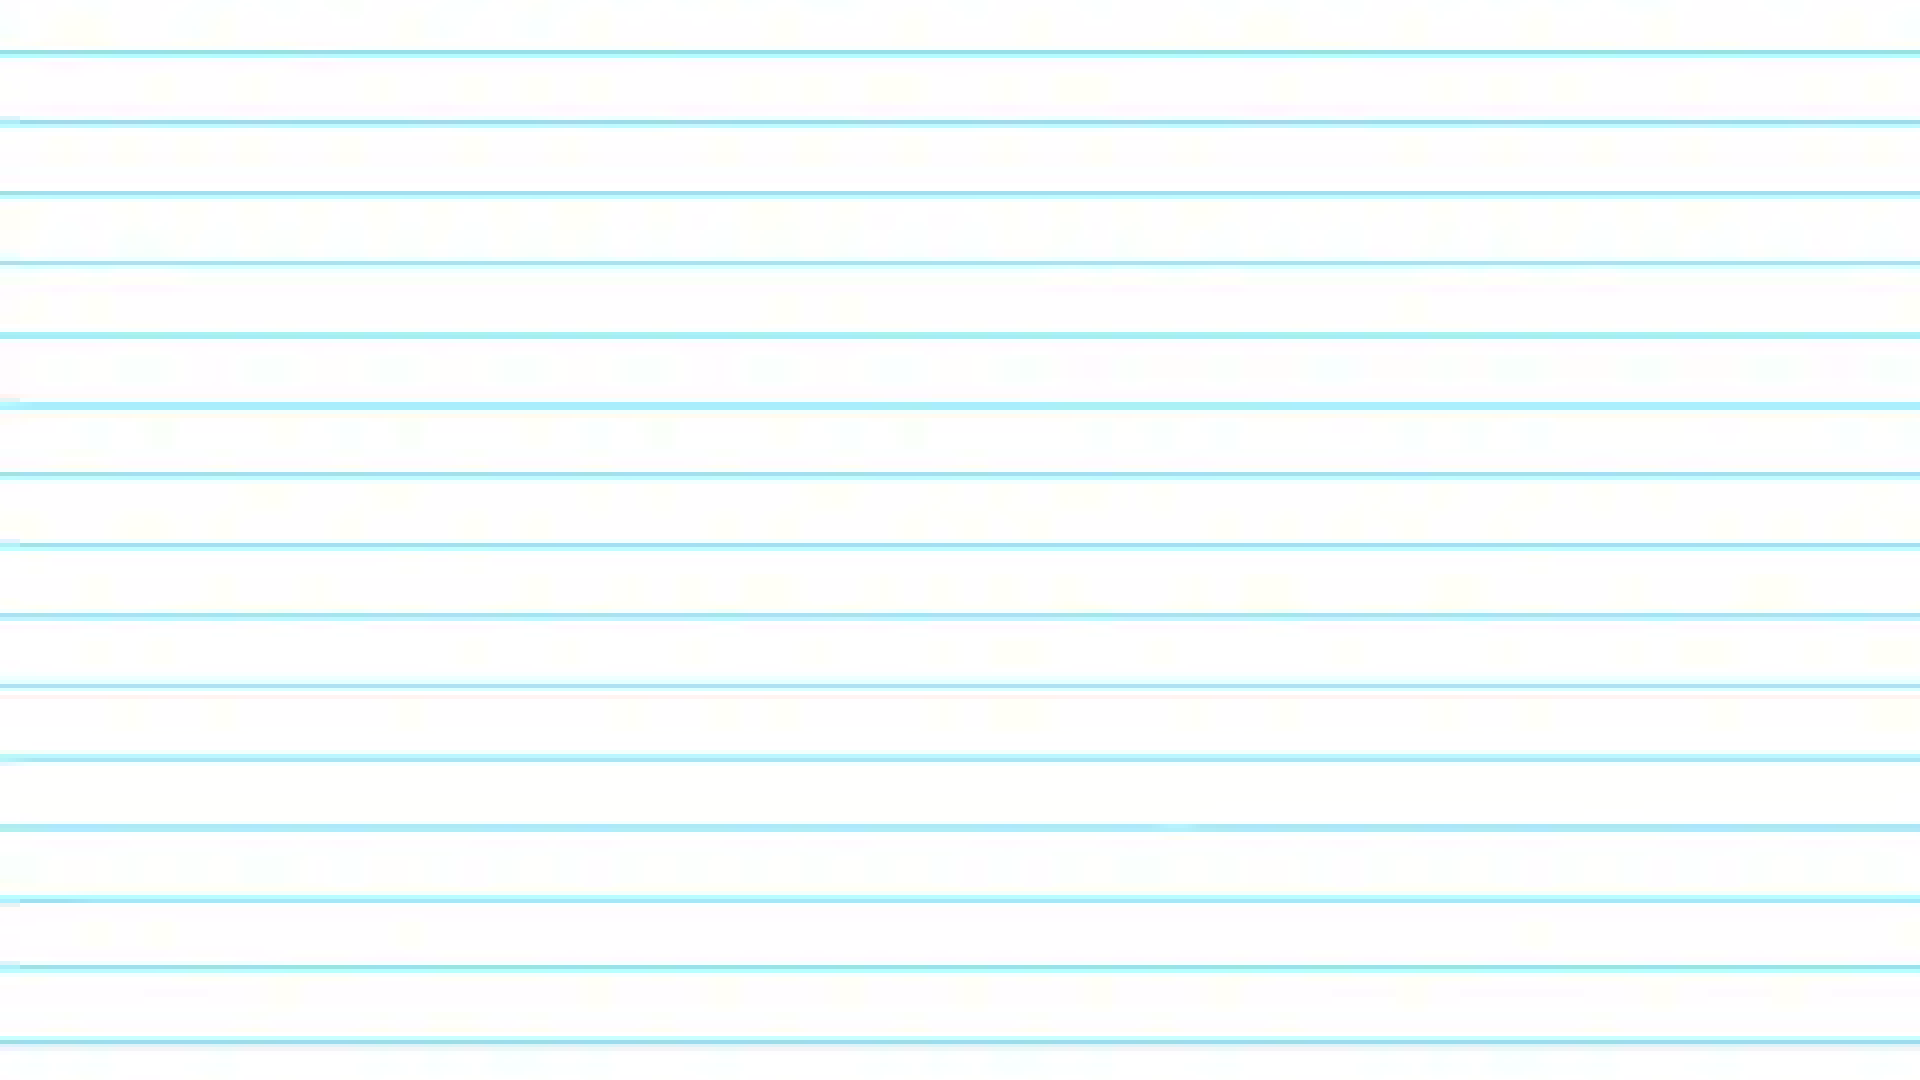
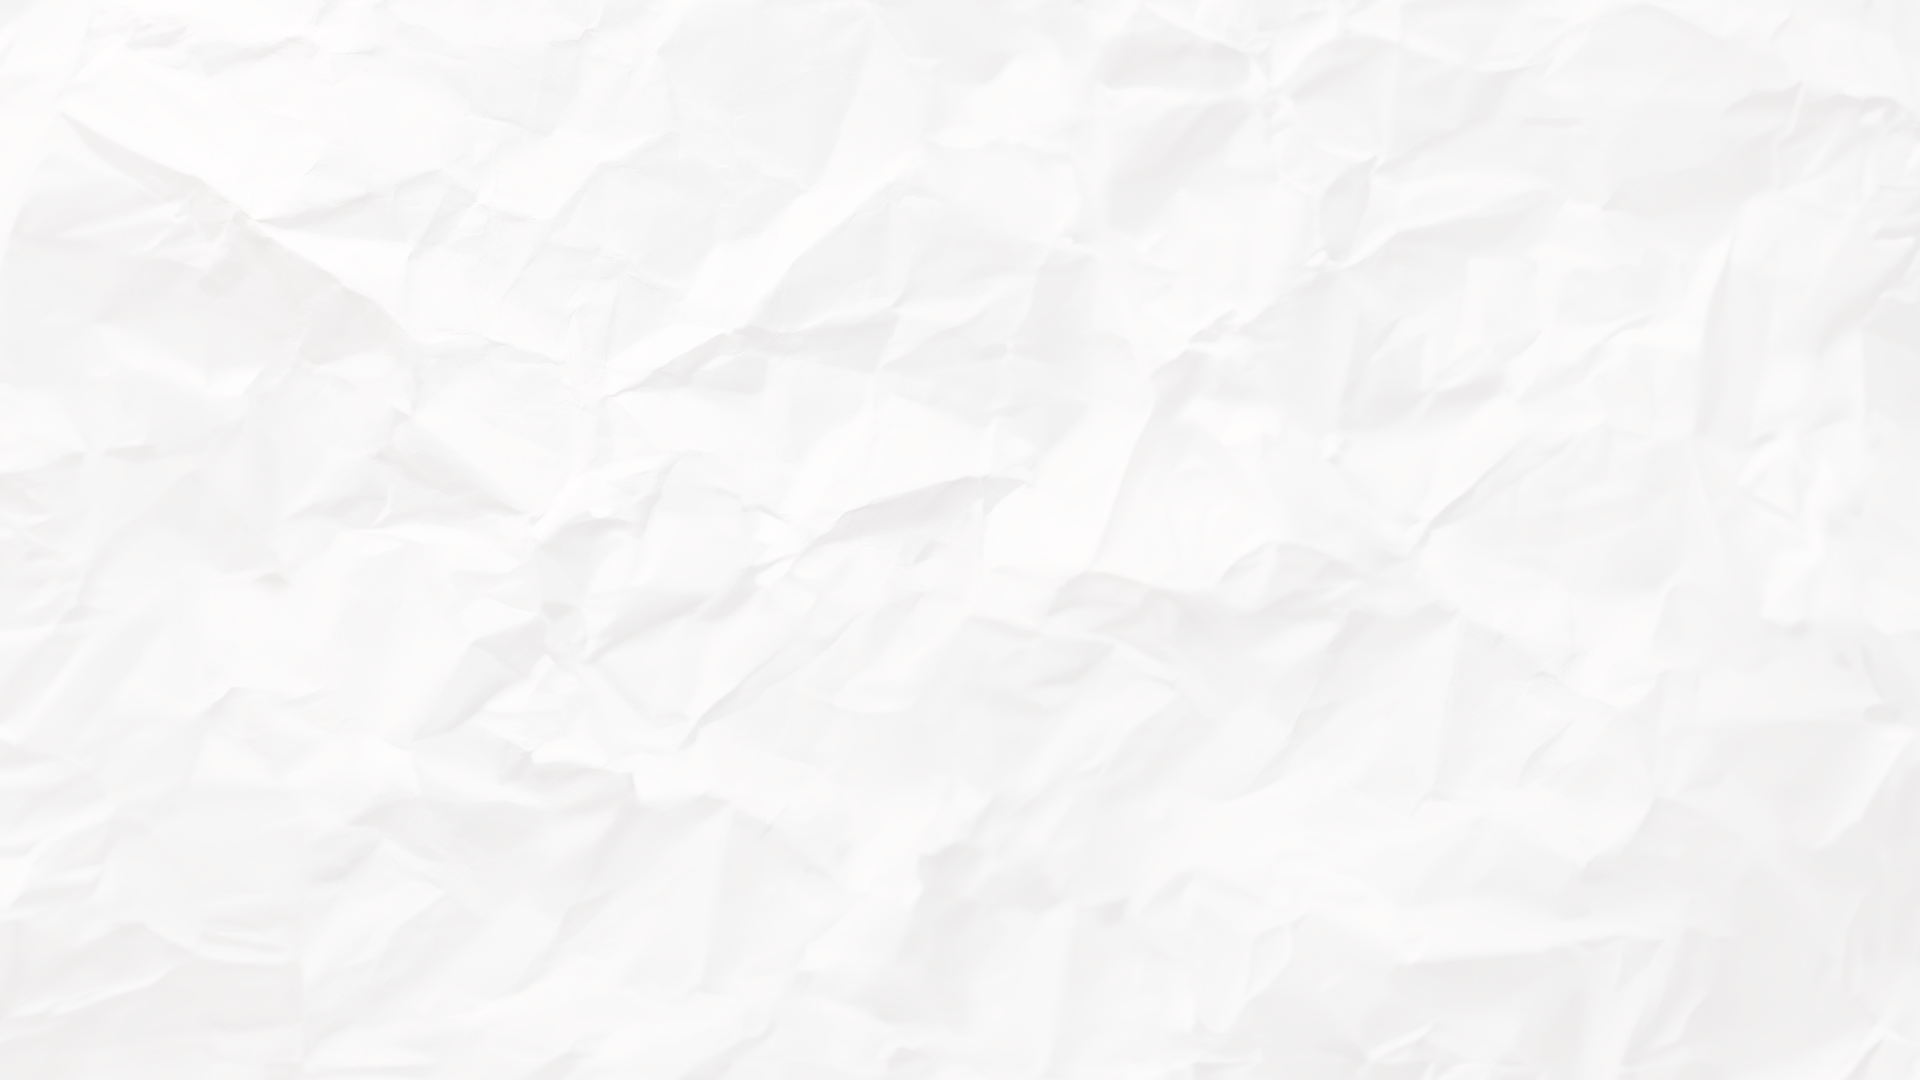
asset update 2

diff --git a/core/src/main/java/io/github/some_example_name/Main.java b/core/src/main/java/io/github/some_example_name/Main.java
@@ -67,6 +67,7 @@ public class Main extends ApplicationAdapter {
     private List<WindParticle> windParticles;
     private Pixmap cursorPixmap;
     private Cursor cursor;
+    private float windBound = 0.03f;
 
     private boolean inventoryDrag;
 
@@ -92,7 +93,7 @@ public class Main extends ApplicationAdapter {
         for(int x=0;x<Gdx.graphics.getWidth();x++){
             for(int y=0;y<Gdx.graphics.getHeight();y++) {
                 if (x % 100 == 0 && y % 100 == 0 && rand.nextInt(1,5)==4) {
-                    windParticles.add(new WindParticle(x+rand.nextInt(1,50), y+rand.nextInt(1,50), 5));
+                    windParticles.add(new WindParticle(x+rand.nextInt(1,50), y+rand.nextInt(1,50), 5, windBound));
                 }
             }
         }
@@ -588,7 +589,7 @@ public class Main extends ApplicationAdapter {
                 }
 
                 if(Gdx.input.isKeyJustPressed(Input.Keys.W)){
-                    wind.set(rand.nextFloat(-0.1f,0.1f),rand.nextFloat(-0.1f,0.1f));
+                    wind.set(rand.nextFloat(-windBound,windBound),rand.nextFloat(-windBound,windBound));
                 }
 
                 if(Gdx.input.isKeyJustPressed(Input.Keys.R)){

diff --git a/core/src/main/java/io/github/some_example_name/WindParticle.java b/core/src/main/java/io/github/some_example_name/WindParticle.java
@@ -17,14 +17,14 @@ public class WindParticle {
     List<Vector2> trail;
     Vector2 randomvec;
 
-    public WindParticle(int x, int y, int rad){
+    public WindParticle(int x, int y, int rad, float windBound){
         pos = new Vector2();
         rand = new Random();
         pos.set(x,y);
         this.rad = rad;
         trail = new ArrayList<>();
         randomvec = new Vector2();
-        randomvec.set(rand.nextFloat(-0.001f,0.001f), rand.nextFloat(-0.001f,0.001f));
+        randomvec.set(rand.nextFloat(-windBound/100,windBound/100), rand.nextFloat(-windBound/100,windBound/100));
     }
 
     public void draw(ShapeRenderer sr){
